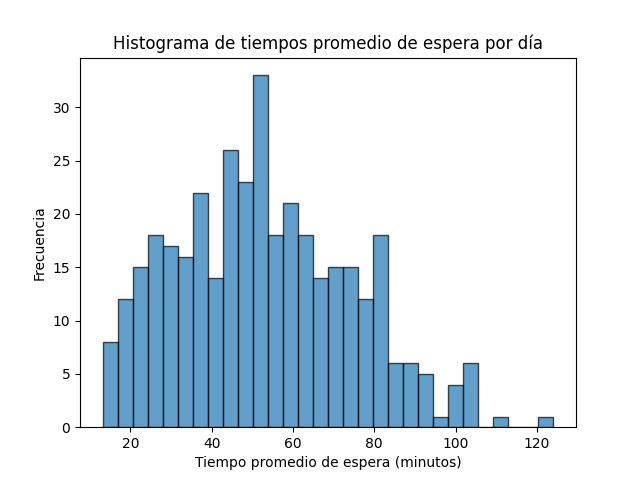
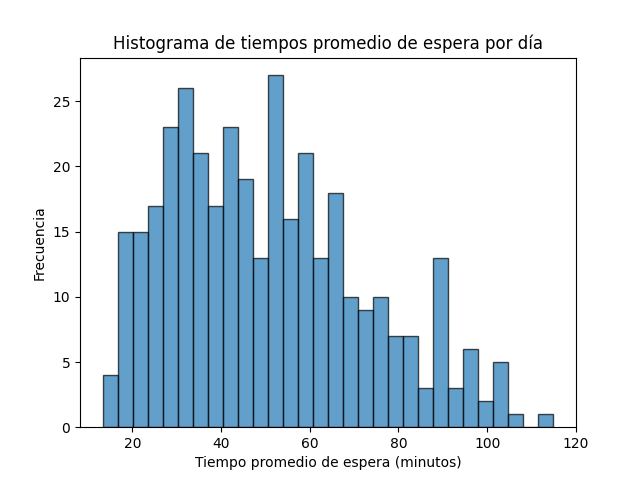
Simulación 2 del Ejercicio 2 terminada.

diff --git a/TP7/Ej2/Ej2-b.py b/TP7/Ej2/Ej2-b.py
@@ -12,6 +12,8 @@ total_minutes_per_day = hours_per_day * minutes_per_hour
 mean_service_time_cashier1 = 15
 std_dev_service_time_cashier1 = 3
 mean_service_time_cashier2 = 12
+mean_service_time_cashier3 = 14
+std_dev_service_time_cashier3 = 6
 
 # Tiempo de llegada de clientes
 mean_arrival_time = 10
@@ -20,15 +22,18 @@ mean_arrival_time = 10
 wait_times = []
 cashier1_busy_time = []
 cashier2_busy_time = []
+cashier3_busy_time = []
 
 for day in range(num_days):
     current_time = 0
     queue = []
     cashier1_end_time = 0
     cashier2_end_time = 0
+    cashier3_end_time = 0
     day_wait_times = []
     cashier1_busy = 0
     cashier2_busy = 0
+    cashier3_busy = 0
 
     while current_time < total_minutes_per_day:
         # Generar el tiempo de llegada del próximo cliente
@@ -49,16 +54,26 @@ for day in range(num_days):
                 arrival = queue.pop(0)
                 day_wait_times.append(cashier1_end_time - arrival)
 
-            if queue and current_time >= cashier2_end_time:
+            elif queue and current_time >= cashier2_end_time:
                 service_time = np.random.exponential(mean_service_time_cashier2)
                 cashier2_busy += service_time
                 cashier2_end_time = current_time + service_time
                 arrival = queue.pop(0)
                 day_wait_times.append(cashier2_end_time - arrival)
+            
+            elif queue and current_time >= cashier3_end_time:
+                service_time = np.random.normal(mean_service_time_cashier3, std_dev_service_time_cashier3)
+                if service_time < 0:
+                    service_time = 0
+                cashier3_busy += service_time
+                cashier3_end_time = current_time + service_time
+                arrival = queue.pop(0)
+                day_wait_times.append(cashier3_end_time - arrival)
     
     wait_times.append(np.mean(day_wait_times))
     cashier1_busy_time.append(cashier1_busy / total_minutes_per_day)
     cashier2_busy_time.append(cashier2_busy / total_minutes_per_day)
+    cashier3_busy_time.append(cashier3_busy / total_minutes_per_day)
 
 # Cálculo del intervalo de confianza para el tiempo de espera promedio
 confidence_level = 0.95
@@ -73,8 +88,10 @@ print(f"Intervalo de confianza al 95% para el tiempo de espera promedio: ({int(c
 # Porcentaje de tiempo de ocupación de cada caja
 mean_cashier1_busy = np.mean(cashier1_busy_time)
 mean_cashier2_busy = np.mean(cashier2_busy_time)
+mean_cashier3_busy = np.mean(cashier3_busy_time)
 print(f"Porcentaje de tiempo de ocupación de la caja 1: {mean_cashier1_busy*100:.2f}%")
 print(f"Porcentaje de tiempo de ocupación de la caja 2: {mean_cashier2_busy*100:.2f}%")
+print(f"Porcentaje de tiempo de ocupación de la caja 3: {mean_cashier3_busy*100:.2f}%")
 
 # Histograma de los tiempos de espera promedio por día
 plt.hist(wait_times, bins=30, edgecolor='k', alpha=0.7)
